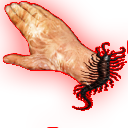
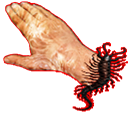
Ui changes

diff --git a/src/scenes/utility/UI.js b/src/scenes/utility/UI.js
@@ -29,6 +29,7 @@ class UI extends Phaser.Scene
         this.robertImportant1 = this.add.sprite(620,playHeight+ 120,'bottleSheet').play('bottleAnim').setOrigin(0.5,0.5).setAlpha(0).setScale(.20).setAngle(50)
         this.robertImportant2 = this.add.image(760,playHeight+ 120,'mirrorShard').setOrigin(0.5,0.5).setAlpha(0).setScale(.25).setRotation(-225)
 
+        this.dot = this.add.image(97, 520, 'dot').setOrigin(0.5, 0.5)
     //     //backarrow stuff NOT SURE WE WANT IT ANYMORE
     //     this.backArrow = this.add.image(50,50,'backArrow').setOrigin(0.5,0.5)
     //     this.backArrow.setInteractive({

diff --git a/src/scenes/utility/load.js b/src/scenes/utility/load.js
@@ -23,6 +23,7 @@ class Load extends Phaser.Scene
        this.load.image('letterHand', './assets/images/LetterHand.png')
        this.load.image('letterPortalBack','./assets/images/LetterPortalBack.png')
        this.load.image('letterPortalFront','./assets/images/IntroLetterFront.png')
+       this.load.image('dot', './assets/images/Dot1.png')
        //Michaels room
         this.load.image('michaelRoomBG','./assets/images/MichaelRoom/MichaelsRoomBG.png')
         this.load.image('michaelComputer','./assets/images/MichaelRoom/computer.png')

diff --git a/src/scenes/ElevatorScenes/ElevatorRoom.js b/src/scenes/ElevatorScenes/ElevatorRoom.js
@@ -4,6 +4,8 @@ class ElevatorRoom extends Phaser.Scene {
     }
 
     create(){
+        this.UiScene = this.scene.manager.getScene('uiScene')
+        this.UiScene.dot.y = 447
         //Background, plain white split in two so the elevator can asthetically come out from the ground
         this.sceneBGTop = this.add.rectangle(480,180,960,360,0xffffff).setOrigin(0.5,0.5)
         this.sceneBGBottom = this.add.rectangle(480,320,960,80,0xfff0ff).setOrigin(0.5,0.5) //Make pure white once done testing

diff --git a/src/scenes/towerEntrance/TowerEntrance.js b/src/scenes/towerEntrance/TowerEntrance.js
@@ -4,6 +4,9 @@ class TowerEntrance extends Phaser.Scene {
     }
 
     create(){
+        this.UiScene = this.scene.manager.getScene('uiScene')
+        this.UiScene.dot.y = 483    
+
         this.mirrorClicks = 0
         this.mirrorBroken = false
         this.towerDoorClickable = new ClickableObject(this, 482, 170, 'towerDoorClosed', "The door is locked tight.").setOrigin(0.5,0.5).setScale(1.2)

diff --git a/src/scenes/michaelRooms/MichaelRoom.js b/src/scenes/michaelRooms/MichaelRoom.js
@@ -4,6 +4,8 @@ class MichaelRoom extends Phaser.Scene {
     }
 
     create() {
+        this.UiScene = this.scene.manager.getScene('uiScene')
+        this.UiScene.dot.y = 411
         //Background 
         this.sceneBG = this.add.image(width / 2, playHeight / 2, 'michaelRoomBG')
         //Object examples of making a clickable object and FindableObject

diff --git a/src/scenes/finalLetterScene/finalLetterRoom.js b/src/scenes/finalLetterScene/finalLetterRoom.js
@@ -4,6 +4,8 @@ class FinalLetterRoom extends Phaser.Scene {
     }
 
     create() {
+         this.UiScene = this.scene.manager.getScene('uiScene')
+         this.UiScene.dot.y = 375
         //PLAY BGM
         this.bgm = this.sound.add('IntroBGM', {
             loop: true,
